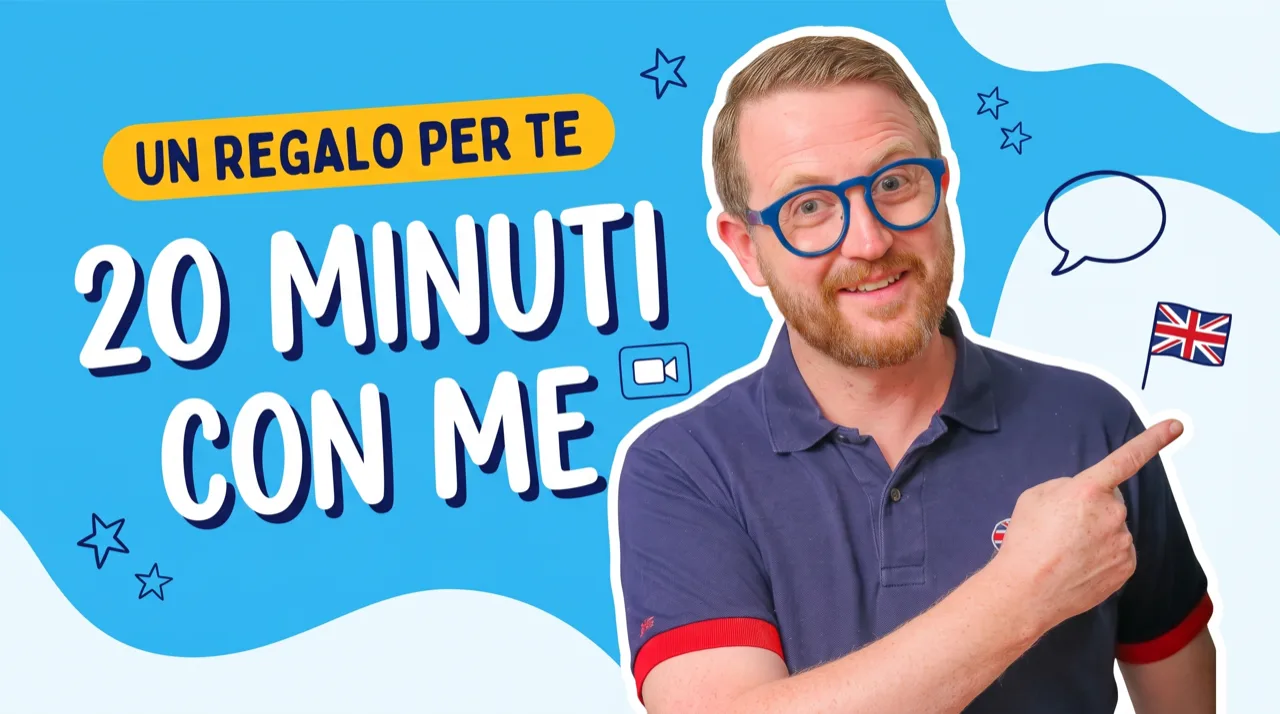
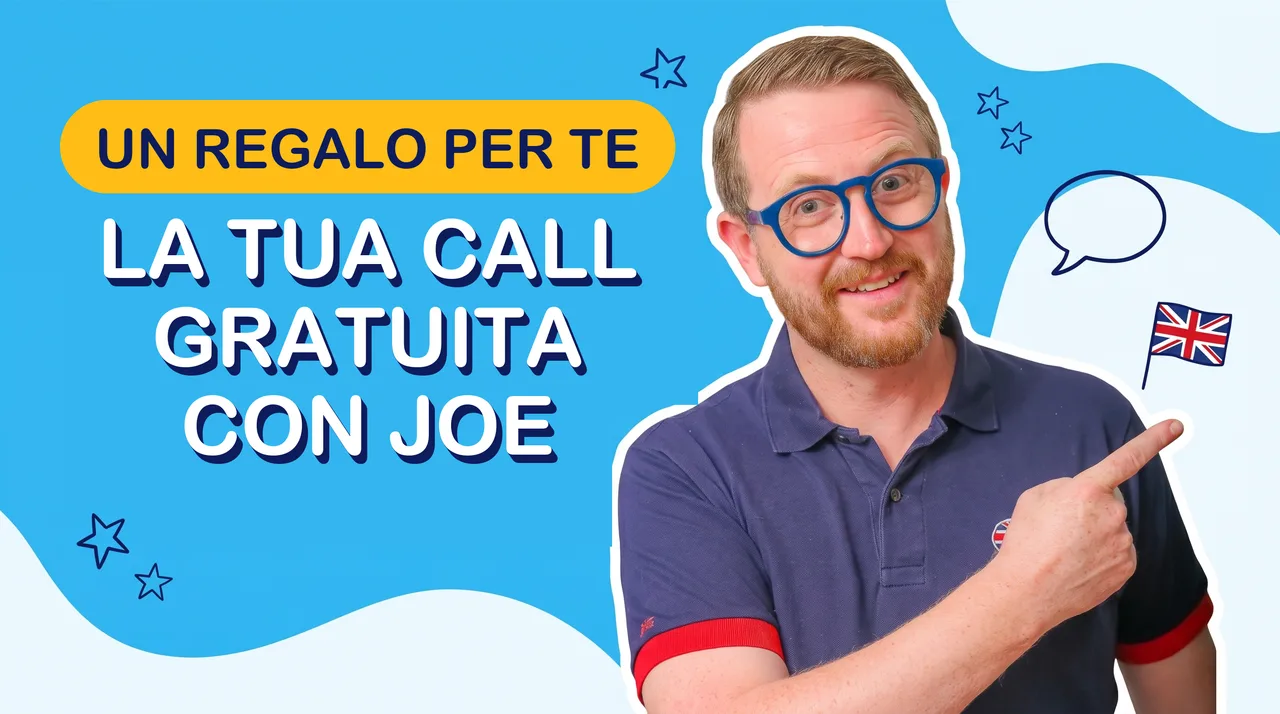
Prenota call: niente 20 minuti, nuova copertina

diff --git a/prenota-call.html b/prenota-call.html
@@ -77,7 +77,7 @@
   <section class="je-hero">
     <div class="je-wrap">
       <div class="je-gift">&#127873; Un regalo per i membri JoEnglish</div>
-      <h1>La tua call gratuita <span>di 20 minuti con Joe</span></h1>
+      <h1>La tua call gratuita <span>con Joe</span></h1>
       <p class="je-sub">Mi racconti perch&#233; vuoi l'inglese e dove ti blocchi. Io ti dico qual &#232; la strada pi&#249; veloce per arrivare dove vuoi.</p>
     </div>
   </section>
@@ -85,7 +85,7 @@
   <div class="je-video-wrap">
     <div class="je-wrap">
       <div class="je-video" id="je-video">
-        <img src="img/thumb-video.webp" alt="Joe: un regalo per te, 20 minuti con me">
+        <img src="img/thumb-video.webp" alt="Joe: un regalo per te, la tua call gratuita con Joe">
         <span class="je-play" aria-hidden="true"></span>
       </div>
 
@@ -101,7 +101,7 @@
         <div class="je-book-head">
           <img src="https://joenglish.com/userfiles/image_cache/layout/640x640-cr/j/o/e/-/n/joe-new-largepng.png" alt="Joe">
           <div>
-            <h2>Call gratuita con Joe &middot; 20 minuti</h2>
+            <h2>Call gratuita con Joe</h2>
             <p>Videochiamata, dal computer o dal telefono</p>
             <span class="je-slots"><span class="je-dot"></span>Posti limitati ogni settimana</span>
           </div>

diff --git a/card.html b/card.html
@@ -18,7 +18,7 @@
   <div class="je-callcard-txt">
     <span class="je-callcard-tag">UN REGALO PER TE</span>
     <h3>Hai una call gratuita con Joe da prenotare</h3>
-    <p>20 minuti io e te: mi racconti il tuo obiettivo e ti dico la strada pi&ugrave; veloce per arrivarci. Posti limitati ogni settimana.</p>
+    <p>Io e te, faccia a faccia: mi racconti il tuo obiettivo e ti dico la strada pi&ugrave; veloce per arrivarci. Posti limitati ogni settimana.</p>
   </div>
   <a href="prenota-call">Prenota la call</a>
 </div>
